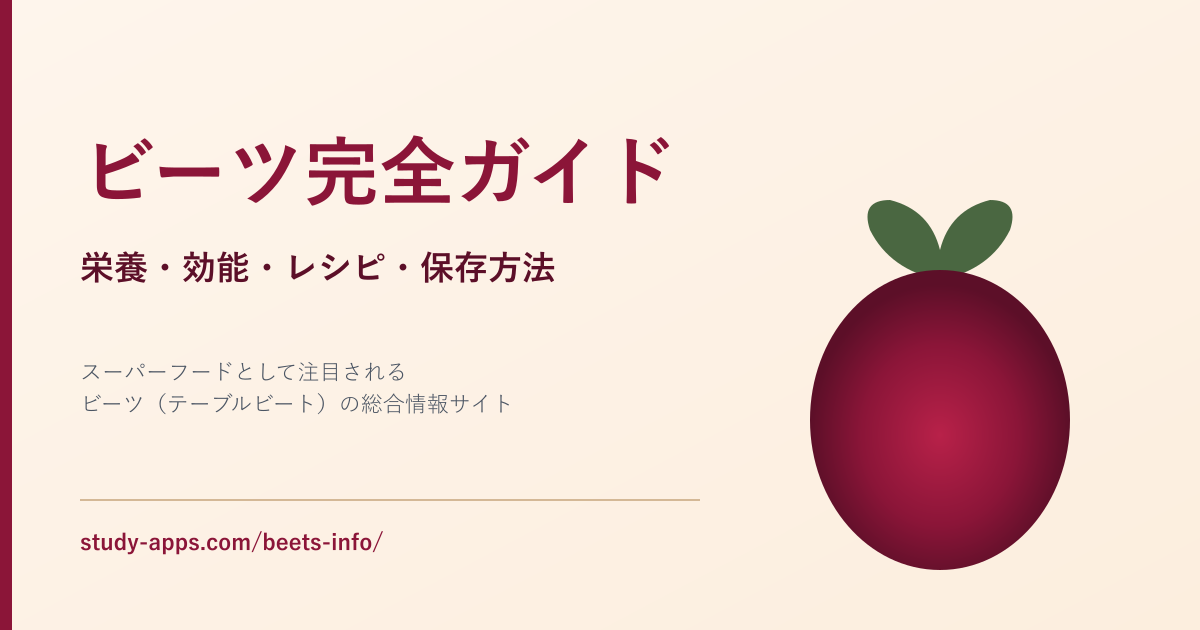
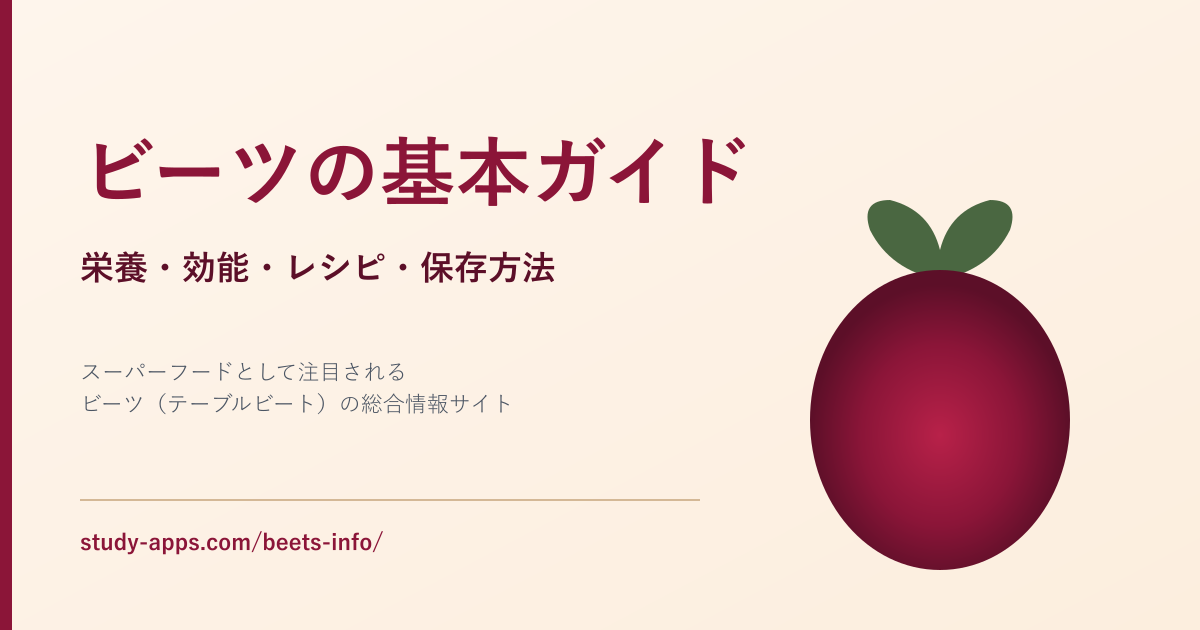
Updates

Changed region(s): [[0.2467, 0.2111, 0.555, 0.3317], [0.5858, 0.2111, 0.6167, 0.3317]]

diff --git a/about/index.html b/about/index.html
@@ -4,18 +4,18 @@
     <meta charset="UTF-8" />
     <link rel="icon" type="image/svg+xml" href="../favicon.svg" />
     <meta name="viewport" content="width=device-width, initial-scale=1.0" />
-    <title>サイトについて | ビーツ完全ガイド</title>
-    <meta name="description" content="ビーツ完全ガイドについて。本サイトの目的と情報源、免責事項を説明します。" />
+    <title>サイトについて | ビーツの基本ガイド</title>
+    <meta name="description" content="ビーツの基本ガイドについて。本サイトの目的と情報源、免責事項を説明します。" />
     <meta name="keywords" content="ビーツ,テーブルビート,栄養,効能,硝酸塩,ベタレイン,ボルシチ,レシピ,保存方法" />
     <meta property="og:title" content="サイトについて" />
-    <meta property="og:description" content="ビーツ完全ガイドについて。本サイトの目的と情報源、免責事項を説明します。" />
+    <meta property="og:description" content="ビーツの基本ガイドについて。本サイトの目的と情報源、免責事項を説明します。" />
     <meta property="og:type" content="website" />
     <meta property="og:url" content="https://study-apps.com/beets-info/about/" />
     <link rel="canonical" href="https://study-apps.com/beets-info/about/" />
     <meta property="og:image" content="https://study-apps.com/beets-info/ogp.png" />
     <meta name="twitter:card" content="summary_large_image" />
     <meta name="twitter:title" content="サイトについて" />
-    <meta name="twitter:description" content="ビーツ完全ガイドについて。本サイトの目的と情報源、免責事項を説明します。" />
+    <meta name="twitter:description" content="ビーツの基本ガイドについて。本サイトの目的と情報源、免責事項を説明します。" />
     <meta name="twitter:image" content="https://study-apps.com/beets-info/ogp.png" />
     <!-- Google tag (gtag.js) -->
     <script async src="https://www.googletagmanager.com/gtag/js?id=G-G6K27V3P4S"></script>
@@ -42,16 +42,16 @@
         }
       })();
     </script>
-    <script type="module" crossorigin src="../assets/index-BDP4HlG-.js"></script>
+    <script type="module" crossorigin src="../assets/index-DYAxEJlV.js"></script>
     <link rel="stylesheet" crossorigin href="../assets/index-BMokHyp3.css">
-  <script type="application/ld+json">{"@context":"https://schema.org","@type":"WebPage","name":"サイトについて","description":"ビーツ完全ガイドについて。本サイトの目的と情報源、免責事項を説明します。","url":"https://study-apps.com/beets-info/about/","inLanguage":"ja","isPartOf":{"@type":"WebSite","name":"ビーツ完全ガイド","url":"https://study-apps.com/beets-info/"}}</script>
-  <script type="application/ld+json">{"@context":"https://schema.org","@type":"BreadcrumbList","itemListElement":[{"@type":"ListItem","position":1,"name":"ビーツ完全ガイド","item":"https://study-apps.com/beets-info/"},{"@type":"ListItem","position":2,"name":"サイトについて","item":"https://study-apps.com/beets-info/about/"}]}</script>
+  <script type="application/ld+json">{"@context":"https://schema.org","@type":"WebPage","name":"サイトについて","description":"ビーツの基本ガイドについて。本サイトの目的と情報源、免責事項を説明します。","url":"https://study-apps.com/beets-info/about/","inLanguage":"ja","isPartOf":{"@type":"WebSite","name":"ビーツの基本ガイド","url":"https://study-apps.com/beets-info/"}}</script>
+  <script type="application/ld+json">{"@context":"https://schema.org","@type":"BreadcrumbList","itemListElement":[{"@type":"ListItem","position":1,"name":"ビーツの基本ガイド","item":"https://study-apps.com/beets-info/"},{"@type":"ListItem","position":2,"name":"サイトについて","item":"https://study-apps.com/beets-info/about/"}]}</script>
   </head>
   <body>
     <div id="root"><article style="font-family:'Hiragino Kaku Gothic ProN','Hiragino Sans','Yu Gothic',Meiryo,sans-serif;line-height:1.85;max-width:920px;margin:0 auto;padding:24px 16px;color:#1f2937">
-  <nav style="font-size:0.85rem;color:#6b7280;margin:0 0 16px"><a href="/beets-info/" style="color:#8B1538;text-decoration:none">ビーツ完全ガイド</a> <span style="color:#9ca3af">›</span> <span style="color:#4b5563;font-weight:600">サイトについて</span></nav>
+  <nav style="font-size:0.85rem;color:#6b7280;margin:0 0 16px"><a href="/beets-info/" style="color:#8B1538;text-decoration:none">ビーツの基本ガイド</a> <span style="color:#9ca3af">›</span> <span style="color:#4b5563;font-weight:600">サイトについて</span></nav>
   <h1 style="font-size:1.7rem;color:#8B1538;border-bottom:2px solid #8B1538;padding-bottom:10px">サイトについて</h1>
-  <p>本サイト「ビーツ完全ガイド」は、ビーツ（テーブルビート）に関する正確で信頼できる情報をまとめたリファレンスサイトです。</p><p>本サイトの内容は一般的な情報提供を目的としており、医学的助言を構成するものではありません。健康上の懸念がある方は医師にご相談ください。</p>
+  <p>本サイト「ビーツの基本ガイド」は、ビーツ（テーブルビート）に関する正確で信頼できる情報をまとめたリファレンスサイトです。</p><p>本サイトの内容は一般的な情報提供を目的としており、医学的助言を構成するものではありません。健康上の懸念がある方は医師にご相談ください。</p>
   <p style="margin-top:32px"><a href="/beets-info/" style="color:#8B1538">← トップへ戻る</a></p>
 </article></div>
   </body>

diff --git a/privacy/index.html b/privacy/index.html
@@ -4,18 +4,18 @@
     <meta charset="UTF-8" />
     <link rel="icon" type="image/svg+xml" href="../favicon.svg" />
     <meta name="viewport" content="width=device-width, initial-scale=1.0" />
-    <title>プライバシーポリシー | ビーツ完全ガイド</title>
-    <meta name="description" content="ビーツ完全ガイドのプライバシーポリシー。Cookie・アクセス解析・広告の使用について。" />
+    <title>プライバシーポリシー | ビーツの基本ガイド</title>
+    <meta name="description" content="ビーツの基本ガイドのプライバシーポリシー。Cookie・アクセス解析・広告の使用について。" />
     <meta name="keywords" content="ビーツ,テーブルビート,栄養,効能,硝酸塩,ベタレイン,ボルシチ,レシピ,保存方法" />
     <meta property="og:title" content="プライバシーポリシー" />
-    <meta property="og:description" content="ビーツ完全ガイドのプライバシーポリシー。Cookie・アクセス解析・広告の使用について。" />
+    <meta property="og:description" content="ビーツの基本ガイドのプライバシーポリシー。Cookie・アクセス解析・広告の使用について。" />
     <meta property="og:type" content="website" />
     <meta property="og:url" content="https://study-apps.com/beets-info/privacy/" />
     <link rel="canonical" href="https://study-apps.com/beets-info/privacy/" />
     <meta property="og:image" content="https://study-apps.com/beets-info/ogp.png" />
     <meta name="twitter:card" content="summary_large_image" />
     <meta name="twitter:title" content="プライバシーポリシー" />
-    <meta name="twitter:description" content="ビーツ完全ガイドのプライバシーポリシー。Cookie・アクセス解析・広告の使用について。" />
+    <meta name="twitter:description" content="ビーツの基本ガイドのプライバシーポリシー。Cookie・アクセス解析・広告の使用について。" />
     <meta name="twitter:image" content="https://study-apps.com/beets-info/ogp.png" />
     <!-- Google tag (gtag.js) -->
     <script async src="https://www.googletagmanager.com/gtag/js?id=G-G6K27V3P4S"></script>
@@ -42,14 +42,14 @@
         }
       })();
     </script>
-    <script type="module" crossorigin src="../assets/index-BDP4HlG-.js"></script>
+    <script type="module" crossorigin src="../assets/index-DYAxEJlV.js"></script>
     <link rel="stylesheet" crossorigin href="../assets/index-BMokHyp3.css">
-  <script type="application/ld+json">{"@context":"https://schema.org","@type":"WebPage","name":"プライバシーポリシー","description":"ビーツ完全ガイドのプライバシーポリシー。Cookie・アクセス解析・広告の使用について。","url":"https://study-apps.com/beets-info/privacy/","inLanguage":"ja","isPartOf":{"@type":"WebSite","name":"ビーツ完全ガイド","url":"https://study-apps.com/beets-info/"}}</script>
-  <script type="application/ld+json">{"@context":"https://schema.org","@type":"BreadcrumbList","itemListElement":[{"@type":"ListItem","position":1,"name":"ビーツ完全ガイド","item":"https://study-apps.com/beets-info/"},{"@type":"ListItem","position":2,"name":"プライバシーポリシー","item":"https://study-apps.com/beets-info/privacy/"}]}</script>
+  <script type="application/ld+json">{"@context":"https://schema.org","@type":"WebPage","name":"プライバシーポリシー","description":"ビーツの基本ガイドのプライバシーポリシー。Cookie・アクセス解析・広告の使用について。","url":"https://study-apps.com/beets-info/privacy/","inLanguage":"ja","isPartOf":{"@type":"WebSite","name":"ビーツの基本ガイド","url":"https://study-apps.com/beets-info/"}}</script>
+  <script type="application/ld+json">{"@context":"https://schema.org","@type":"BreadcrumbList","itemListElement":[{"@type":"ListItem","position":1,"name":"ビーツの基本ガイド","item":"https://study-apps.com/beets-info/"},{"@type":"ListItem","position":2,"name":"プライバシーポリシー","item":"https://study-apps.com/beets-info/privacy/"}]}</script>
   </head>
   <body>
     <div id="root"><article style="font-family:'Hiragino Kaku Gothic ProN','Hiragino Sans','Yu Gothic',Meiryo,sans-serif;line-height:1.85;max-width:920px;margin:0 auto;padding:24px 16px;color:#1f2937">
-  <nav style="font-size:0.85rem;color:#6b7280;margin:0 0 16px"><a href="/beets-info/" style="color:#8B1538;text-decoration:none">ビーツ完全ガイド</a> <span style="color:#9ca3af">›</span> <span style="color:#4b5563;font-weight:600">プライバシーポリシー</span></nav>
+  <nav style="font-size:0.85rem;color:#6b7280;margin:0 0 16px"><a href="/beets-info/" style="color:#8B1538;text-decoration:none">ビーツの基本ガイド</a> <span style="color:#9ca3af">›</span> <span style="color:#4b5563;font-weight:600">プライバシーポリシー</span></nav>
   <h1 style="font-size:1.7rem;color:#8B1538;border-bottom:2px solid #8B1538;padding-bottom:10px">プライバシーポリシー</h1>
   <h2 class="content-h2" style="font-size:1.35rem;color:#8B1538;border-left:4px solid #8B1538;background:#fef5ec;padding:8px 14px;margin:32px 0 16px">アクセス解析</h2><p>本サイトでは Google Analytics を使用しています。Cookie を利用して匿名のトラフィックデータを収集します。</p><h2 class="content-h2" style="font-size:1.35rem;color:#8B1538;border-left:4px solid #8B1538;background:#fef5ec;padding:8px 14px;margin:32px 0 16px">広告について</h2><p>本サイトでは Google AdSense などの第三者配信の広告サービスを利用することがあります。広告配信事業者は、ユーザーの興味に応じた広告を表示するために Cookie を使用することがあります。</p><h2 class="content-h2" style="font-size:1.35rem;color:#8B1538;border-left:4px solid #8B1538;background:#fef5ec;padding:8px 14px;margin:32px 0 16px">免責事項</h2><p>本サイトの情報の利用により生じた損害について、運営者は一切の責任を負いません。</p>
   <p style="margin-top:32px"><a href="/beets-info/" style="color:#8B1538">← トップへ戻る</a></p>

diff --git a/index.html b/index.html
@@ -4,17 +4,17 @@
     <meta charset="UTF-8" />
     <link rel="icon" type="image/svg+xml" href="./favicon.svg" />
     <meta name="viewport" content="width=device-width, initial-scale=1.0" />
-    <title>ビーツ完全ガイド | 栄養・効能・レシピ・保存方法</title>
+    <title>ビーツの基本ガイド | 栄養・効能・レシピ・保存方法</title>
     <meta name="description" content="ビーツ（テーブルビート）の栄養、健康効果、品種、産地、レシピ、選び方、保存方法、注意点まで網羅した総合情報サイト。" />
     <meta name="keywords" content="ビーツ,テーブルビート,栄養,効能,硝酸塩,ベタレイン,ボルシチ,レシピ,保存方法" />
-    <meta property="og:title" content="ビーツ完全ガイド | 栄養・効能・レシピ・保存方法" />
+    <meta property="og:title" content="ビーツの基本ガイド | 栄養・効能・レシピ・保存方法" />
     <meta property="og:description" content="ビーツの栄養・健康効果から、調理法・保存方法・注意点まで網羅した総合情報サイト。" />
     <meta property="og:type" content="website" />
     <meta property="og:url" content="https://study-apps.com/beets-info/" />
     <link rel="canonical" href="https://study-apps.com/beets-info/" />
     <meta property="og:image" content="https://study-apps.com/beets-info/ogp.png" />
     <meta name="twitter:card" content="summary_large_image" />
-    <meta name="twitter:title" content="ビーツ完全ガイド | 栄養・効能・レシピ・保存方法" />
+    <meta name="twitter:title" content="ビーツの基本ガイド | 栄養・効能・レシピ・保存方法" />
     <meta name="twitter:description" content="ビーツの栄養・健康効果から、調理法・保存方法・注意点まで網羅した総合情報サイト。" />
     <meta name="twitter:image" content="https://study-apps.com/beets-info/ogp.png" />
     <!-- Google tag (gtag.js) -->
@@ -42,13 +42,13 @@
         }
       })();
     </script>
-    <script type="module" crossorigin src="./assets/index-BDP4HlG-.js"></script>
+    <script type="module" crossorigin src="./assets/index-DYAxEJlV.js"></script>
     <link rel="stylesheet" crossorigin href="./assets/index-BMokHyp3.css">
-  <script type="application/ld+json">{"@context":"https://schema.org","@type":"WebSite","name":"ビーツ完全ガイド","url":"https://study-apps.com/beets-info/","description":"ビーツ（テーブルビート）の栄養、健康効果、品種、産地、レシピ、選び方、保存方法、注意点まで網羅した総合情報サイト。","inLanguage":"ja"}</script>
+  <script type="application/ld+json">{"@context":"https://schema.org","@type":"WebSite","name":"ビーツの基本ガイド","url":"https://study-apps.com/beets-info/","description":"ビーツ（テーブルビート）の栄養、健康効果、品種、産地、レシピ、選び方、保存方法、注意点まで網羅した総合情報サイト。","inLanguage":"ja"}</script>
   </head>
   <body>
     <div id="root"><article id="static-fallback" style="font-family:sans-serif;line-height:1.7;max-width:920px;margin:0 auto;padding:24px 16px">
-  <h1 style="font-size:1.8rem;font-weight:700;border-bottom:2px solid #8B1538;padding-bottom:8px;margin-bottom:16px;color:#8B1538">ビーツ完全ガイド</h1>
+  <h1 style="font-size:1.8rem;font-weight:700;border-bottom:2px solid #8B1538;padding-bottom:8px;margin-bottom:16px;color:#8B1538">ビーツの基本ガイド</h1>
   <p style="color:#444;margin-bottom:24px">スーパーフードとして注目されるビーツ（テーブルビート）。栄養と健康効果、品種、産地、レシピ、保存方法、注意点まで、科学的根拠に基づいて分かりやすく解説します。</p>
   <h2 style="font-size:1.3rem;font-weight:700;margin-bottom:12px">セクション一覧</h2>
   <ul style="list-style:none;padding:0">

diff --git a/glossary/index.html b/glossary/index.html
@@ -4,7 +4,7 @@
     <meta charset="UTF-8" />
     <link rel="icon" type="image/svg+xml" href="../favicon.svg" />
     <meta name="viewport" content="width=device-width, initial-scale=1.0" />
-    <title>用語集 | ビーツ完全ガイド</title>
+    <title>用語集 | ビーツの基本ガイド</title>
     <meta name="description" content="ビーツに関する専門用語（ベタレイン、ベタシアニン、シュウ酸、FODMAP、ビーツ尿など）の解説。" />
     <meta name="keywords" content="ビーツ,テーブルビート,栄養,効能,硝酸塩,ベタレイン,ボルシチ,レシピ,保存方法" />
     <meta property="og:title" content="用語集" />
@@ -42,14 +42,14 @@
         }
       })();
     </script>
-    <script type="module" crossorigin src="../assets/index-BDP4HlG-.js"></script>
+    <script type="module" crossorigin src="../assets/index-DYAxEJlV.js"></script>
     <link rel="stylesheet" crossorigin href="../assets/index-BMokHyp3.css">
-  <script type="application/ld+json">{"@context":"https://schema.org","@type":"WebPage","name":"用語集","description":"ビーツに関する専門用語（ベタレイン、ベタシアニン、シュウ酸、FODMAP、ビーツ尿など）の解説。","url":"https://study-apps.com/beets-info/glossary/","inLanguage":"ja","isPartOf":{"@type":"WebSite","name":"ビーツ完全ガイド","url":"https://study-apps.com/beets-info/"}}</script>
-  <script type="application/ld+json">{"@context":"https://schema.org","@type":"BreadcrumbList","itemListElement":[{"@type":"ListItem","position":1,"name":"ビーツ完全ガイド","item":"https://study-apps.com/beets-info/"},{"@type":"ListItem","position":2,"name":"用語集","item":"https://study-apps.com/beets-info/glossary/"}]}</script>
+  <script type="application/ld+json">{"@context":"https://schema.org","@type":"WebPage","name":"用語集","description":"ビーツに関する専門用語（ベタレイン、ベタシアニン、シュウ酸、FODMAP、ビーツ尿など）の解説。","url":"https://study-apps.com/beets-info/glossary/","inLanguage":"ja","isPartOf":{"@type":"WebSite","name":"ビーツの基本ガイド","url":"https://study-apps.com/beets-info/"}}</script>
+  <script type="application/ld+json">{"@context":"https://schema.org","@type":"BreadcrumbList","itemListElement":[{"@type":"ListItem","position":1,"name":"ビーツの基本ガイド","item":"https://study-apps.com/beets-info/"},{"@type":"ListItem","position":2,"name":"用語集","item":"https://study-apps.com/beets-info/glossary/"}]}</script>
   </head>
   <body>
     <div id="root"><article style="font-family:'Hiragino Kaku Gothic ProN','Hiragino Sans','Yu Gothic',Meiryo,sans-serif;line-height:1.85;max-width:920px;margin:0 auto;padding:24px 16px;color:#1f2937">
-  <nav style="font-size:0.85rem;color:#6b7280;margin:0 0 16px"><a href="/beets-info/" style="color:#8B1538;text-decoration:none">ビーツ完全ガイド</a> <span style="color:#9ca3af">›</span> <span style="color:#4b5563;font-weight:600">用語集</span></nav>
+  <nav style="font-size:0.85rem;color:#6b7280;margin:0 0 16px"><a href="/beets-info/" style="color:#8B1538;text-decoration:none">ビーツの基本ガイド</a> <span style="color:#9ca3af">›</span> <span style="color:#4b5563;font-weight:600">用語集</span></nav>
   <h1 style="font-size:1.7rem;color:#8B1538;border-bottom:2px solid #8B1538;padding-bottom:10px">用語集</h1>
   <p style="color:#555;font-size:1.05rem;margin:16px 0 24px">本サイトに登場する専門用語をまとめました。ベタレイン、シュウ酸、FODMAP など、健康効果や注意点の理解に役立ててください。</p><dl style="margin:0;padding:0"><div style="border-bottom:1px solid #e7d8c8;padding:20px 0"><dt style="font-weight:700;color:#8B1538;font-size:1.1rem;margin-bottom:8px"><span style="margin-right:4px">一酸化窒素（NO）</span><span style="color:#9c8f80;font-size:0.9rem;font-weight:400">（いっさんかちっそ）</span></dt><dd style="margin:0"><p style="margin:0 0 8px;line-height:1.85;color:#1f2937">血管平滑筋に作用し血管を拡張させる生理活性物質。ビーツの硝酸塩から体内で生成される。血流改善・血圧低下・運動効率向上に関与する。</p><a href="/beets-info/nutrition/" style="display:inline-block;font-size:0.88rem;color:#8B1538;margin-top:4px">関連ページ：栄養と健康効果 →</a></dd></div><div style="border-bottom:1px solid #e7d8c8;padding:20px 0"><dt style="font-weight:700;color:#8B1538;font-size:1.1rem;margin-bottom:8px"><span style="margin-right:4px">エルゴジェニックエイド</span></dt><dd style="margin:0"><p style="margin:0 0 8px;line-height:1.85;color:#1f2937">運動パフォーマンスを向上させる目的で使用される物質や手段の総称。ビーツの硝酸塩は天然のエルゴジェニックエイドとして、持久系競技者に活用されている。</p><a href="/beets-info/nutrition/" style="display:inline-block;font-size:0.88rem;color:#8B1538;margin-top:4px">関連ページ：栄養と健康効果 →</a></dd></div><div style="border-bottom:1px solid #e7d8c8;padding:20px 0"><dt style="font-weight:700;color:#8B1538;font-size:1.1rem;margin-bottom:8px"><span style="margin-right:4px">火焔菜</span><span style="color:#9c8f80;font-size:0.9rem;font-weight:400">（かえんさい）</span></dt><dd style="margin:0"><p style="margin:0 0 8px;line-height:1.85;color:#1f2937">ビーツの和名。江戸時代に日本に伝わったとき、燃え盛る炎のような赤色から名付けられた。当初は観賞用として愛でられていた。</p><a href="/beets-info/basics/" style="display:inline-block;font-size:0.88rem;color:#8B1538;margin-top:4px">関連ページ：基礎知識 →</a></dd></div><div style="border-bottom:1px solid #e7d8c8;padding:20px 0"><dt style="font-weight:700;color:#8B1538;font-size:1.1rem;margin-bottom:8px"><span style="margin-right:4px">高カリウム血症</span><span style="color:#9c8f80;font-size:0.9rem;font-weight:400">（こうカリウムけっしょう）</span></dt><dd style="margin:0"><p style="margin:0 0 8px;line-height:1.85;color:#1f2937">血中カリウム濃度が異常に高くなる状態。腎機能低下時に発症リスクが高い。重症化すると不整脈や心停止につながる危険な状態。ビーツは100g中380〜460mgと高カリウムなため、腎臓病の方は摂取を控える。</p><a href="/beets-info/cautions/" style="display:inline-block;font-size:0.88rem;color:#8B1538;margin-top:4px">関連ページ：注意点と副作用 →</a></dd></div><div style="border-bottom:1px solid #e7d8c8;padding:20px 0"><dt style="font-weight:700;color:#8B1538;font-size:1.1rem;margin-bottom:8px"><span style="margin-right:4px">ジオスミン</span></dt><dd style="margin:0"><p style="margin:0 0 8px;line-height:1.85;color:#1f2937">ビーツの土特有の香りを生み出す有機化合物。土壌中の放線菌などが生成し、ビーツの根に蓄積する。雨上がりの土の匂いの正体でもある。</p><a href="/beets-info/basics/" style="display:inline-block;font-size:0.88rem;color:#8B1538;margin-top:4px">関連ページ：基礎知識 →</a></dd></div><div style="border-bottom:1px solid #e7d8c8;padding:20px 0"><dt style="font-weight:700;color:#8B1538;font-size:1.1rem;margin-bottom:8px"><span style="margin-right:4px">シュウ酸</span><span style="color:#9c8f80;font-size:0.9rem;font-weight:400">（しゅうさん）</span></dt><dd style="margin:0"><p style="margin:0 0 8px;line-height:1.85;color:#1f2937">ビーツやホウレンソウに含まれるカルボン酸の一種。尿中でカルシウムと結合して結晶（シュウ酸カルシウム）となり、尿路結石の原因になることがある。茹でこぼし・乳製品との同時摂取で吸収を抑えられる。</p><a href="/beets-info/cautions/" style="display:inline-block;font-size:0.88rem;color:#8B1538;margin-top:4px">関連ページ：注意点と副作用 →</a></dd></div><div style="border-bottom:1px solid #e7d8c8;padding:20px 0"><dt style="font-weight:700;color:#8B1538;font-size:1.1rem;margin-bottom:8px"><span style="margin-right:4px">硝酸塩</span><span style="color:#9c8f80;font-size:0.9rem;font-weight:400">（しょうさんえん）</span></dt><dd style="margin:0"><p style="margin:0 0 8px;line-height:1.85;color:#1f2937">ビーツに豊富に含まれる無機イオン（NO₃⁻）。経口摂取後、口腔内細菌や胃酸の働きで一酸化窒素（NO）に変換され、血管拡張・血圧低下・運動パフォーマンス向上などの作用をもたらす。</p><a href="/beets-info/nutrition/" style="display:inline-block;font-size:0.88rem;color:#8B1538;margin-top:4px">関連ページ：栄養と健康効果 →</a></dd></div><div style="border-bottom:1px solid #e7d8c8;padding:20px 0"><dt style="font-weight:700;color:#8B1538;font-size:1.1rem;margin-bottom:8px"><span style="margin-right:4px">スイスチャード</span></dt><dd style="margin:0"><p style="margin:0 0 8px;line-height:1.85;color:#1f2937">ビーツと同じ Beta vulgaris に属する葉菜用品種。葉と肉厚の葉柄を食用にする。カラフルな葉柄が彩り野菜として人気。和名は「フダンソウ」。</p><a href="/beets-info/basics/" style="display:inline-block;font-size:0.88rem;color:#8B1538;margin-top:4px">関連ページ：基礎知識 →</a></dd></div><div style="border-bottom:1px solid #e7d8c8;padding:20px 0"><dt style="font-weight:700;color:#8B1538;font-size:1.1rem;margin-bottom:8px"><span style="margin-right:4px">テーブルビート</span></dt><dd style="margin:0"><p style="margin:0 0 8px;line-height:1.85;color:#1f2937">食用ビーツの正式名称のひとつ。観賞用や砂糖原料用と区別するため、英語圏では「table beet」と呼ぶ。本サイトの「ビーツ」はテーブルビート（Beta vulgaris Garden Beet Group）を指す。</p><a href="/beets-info/basics/" style="display:inline-block;font-size:0.88rem;color:#8B1538;margin-top:4px">関連ページ：基礎知識 →</a></dd></div><div style="border-bottom:1px solid #e7d8c8;padding:20px 0"><dt style="font-weight:700;color:#8B1538;font-size:1.1rem;margin-bottom:8px"><span style="margin-right:4px">テンサイ</span><span style="color:#9c8f80;font-size:0.9rem;font-weight:400">（てんさい）</span></dt><dd style="margin:0"><p style="margin:0 0 8px;line-height:1.85;color:#1f2937">ビーツと同じ Beta vulgaris に属するが、根に砂糖（ショ糖）を蓄積するよう改良された品種群。日本では北海道で大規模栽培され、てん菜糖の原料となる。</p><a href="/beets-info/basics/" style="display:inline-block;font-size:0.88rem;color:#8B1538;margin-top:4px">関連ページ：基礎知識 →</a></dd></div><div style="border-bottom:1px solid #e7d8c8;padding:20px 0"><dt style="font-weight:700;color:#8B1538;font-size:1.1rem;margin-bottom:8px"><span style="margin-right:4px">ビーツ尿</span><span style="color:#9c8f80;font-size:0.9rem;font-weight:400">（ビーツにょう）</span></dt><dd style="margin:0"><p style="margin:0 0 8px;line-height:1.85;color:#1f2937">ビーツ摂取後に尿がピンク〜赤褐色に変色する生理的現象（医学用語：Beeturia）。ベタシアニンが分解されずに尿中へ排出されるために起こる。完全に無害で、1〜2日で元に戻る。</p><a href="/beets-info/cautions/" style="display:inline-block;font-size:0.88rem;color:#8B1538;margin-top:4px">関連ページ：注意点と副作用 →</a></dd></div><div style="border-bottom:1px solid #e7d8c8;padding:20px 0"><dt style="font-weight:700;color:#8B1538;font-size:1.1rem;margin-bottom:8px"><span style="margin-right:4px">FODMAP</span><span style="color:#9c8f80;font-size:0.9rem;font-weight:400">（フォドマップ）</span></dt><dd style="margin:0"><p style="margin:0 0 8px;line-height:1.85;color:#1f2937">小腸で吸収されにくく大腸で発酵を起こす糖質群の総称（Fermentable Oligo-, Di-, Mono-saccharides And Polyols）。過敏性腸症候群（IBS）患者では症状の原因になりうる。ビーツに含まれるフルクタンも該当する。</p><a href="/beets-info/cautions/" style="display:inline-block;font-size:0.88rem;color:#8B1538;margin-top:4px">関連ページ：注意点と副作用 →</a></dd></div><div style="border-bottom:1px solid #e7d8c8;padding:20px 0"><dt style="font-weight:700;color:#8B1538;font-size:1.1rem;margin-bottom:8px"><span style="margin-right:4px">フルクタン</span></dt><dd style="margin:0"><p style="margin:0 0 8px;line-height:1.85;color:#1f2937">果糖（フルクトース）が連なった多糖類。ヒトの小腸では消化できず大腸で発酵してガスを発生させる。FODMAPの一種で、IBSの方は注意が必要。</p><a href="/beets-info/cautions/" style="display:inline-block;font-size:0.88rem;color:#8B1538;margin-top:4px">関連ページ：注意点と副作用 →</a></dd></div><div style="border-bottom:1px solid #e7d8c8;padding:20px 0"><dt style="font-weight:700;color:#8B1538;font-size:1.1rem;margin-bottom:8px"><span style="margin-right:4px">ベタイン</span></dt><dd style="margin:0"><p style="margin:0 0 8px;line-height:1.85;color:#1f2937">ビーツに豊富に含まれる含窒素化合物。肝臓での脂質蓄積を抑える、ホモシステインを低減するなどの作用が報告されている。化粧品では保湿成分としても利用される。</p><a href="/beets-info/nutrition/" style="display:inline-block;font-size:0.88rem;color:#8B1538;margin-top:4px">関連ページ：栄養と健康効果 →</a></dd></div><div style="border-bottom:1px solid #e7d8c8;padding:20px 0"><dt style="font-weight:700;color:#8B1538;font-size:1.1rem;margin-bottom:8px"><span style="margin-right:4px">ベタシアニン</span></dt><dd style="margin:0"><p style="margin:0 0 8px;line-height:1.85;color:#1f2937">ベタレインのうち赤紫色を担う色素。水溶性で熱・アルカリ・金属イオンに弱く、加熱や切断により流出しやすい。皮付き加熱が推奨される理由のひとつ。</p><a href="/beets-info/recipes/" style="display:inline-block;font-size:0.88rem;color:#8B1538;margin-top:4px">関連ページ：料理とレシピ →</a></dd></div><div style="border-bottom:1px solid #e7d8c8;padding:20px 0"><dt style="font-weight:700;color:#8B1538;font-size:1.1rem;margin-bottom:8px"><span style="margin-right:4px">ベタレイン</span></dt><dd style="margin:0"><p style="margin:0 0 8px;line-height:1.85;color:#1f2937">ビーツの鮮やかな赤紫色を作っている水溶性の天然色素。ベタシアニン（赤色系）とベタキサンチン（黄色系）の総称。サボテン科の植物にも含まれる、植物界では珍しい色素グループ。強力な抗酸化作用が報告されている。</p><a href="/beets-info/nutrition/" style="display:inline-block;font-size:0.88rem;color:#8B1538;margin-top:4px">関連ページ：栄養と健康効果 →</a></dd></div></dl>
   <p style="margin-top:32px"><a href="/beets-info/" style="color:#8B1538">← トップへ戻る</a></p>

diff --git a/basics/index.html b/basics/index.html
@@ -4,7 +4,7 @@
     <meta charset="UTF-8" />
     <link rel="icon" type="image/svg+xml" href="../favicon.svg" />
     <meta name="viewport" content="width=device-width, initial-scale=1.0" />
-    <title>ビーツの基礎知識｜植物としての特徴と代表品種 | ビーツ完全ガイド</title>
+    <title>ビーツの基礎知識｜植物としての特徴と代表品種 | ビーツの基本ガイド</title>
     <meta name="description" content="ビーツ（テーブルビート）の学名・系統分類、歴史的背景、代表的な品種（デトロイト・ダークレッド、ゴルゴ、ゴールデンビーツなど）を解説します。" />
     <meta name="keywords" content="ビーツ,テーブルビート,栄養,効能,硝酸塩,ベタレイン,ボルシチ,レシピ,保存方法" />
     <meta property="og:title" content="ビーツの基礎知識｜植物としての特徴と代表品種" />
@@ -42,15 +42,15 @@
         }
       })();
     </script>
-    <script type="module" crossorigin src="../assets/index-BDP4HlG-.js"></script>
+    <script type="module" crossorigin src="../assets/index-DYAxEJlV.js"></script>
     <link rel="stylesheet" crossorigin href="../assets/index-BMokHyp3.css">
   <script type="application/ld+json">{"@context":"https://schema.org","@type":"Article","headline":"ビーツの基礎知識｜植物としての特徴と代表品種","description":"ビーツ（テーブルビート）の学名・系統分類、歴史的背景、代表的な品種（デトロイト・ダークレッド、ゴルゴ、ゴールデンビーツなど）を解説します。","url":"https://study-apps.com/beets-info/basics/","inLanguage":"ja","datePublished":"2026-05-18","dateModified":"2026-05-18","author":{"@type":"Organization","name":"study-apps.com"},"publisher":{"@type":"Organization","name":"study-apps.com","url":"https://study-apps.com/"},"mainEntityOfPage":{"@type":"WebPage","@id":"https://study-apps.com/beets-info/basics/"}}</script>
-  <script type="application/ld+json">{"@context":"https://schema.org","@type":"BreadcrumbList","itemListElement":[{"@type":"ListItem","position":1,"name":"ビーツ完全ガイド","item":"https://study-apps.com/beets-info/"},{"@type":"ListItem","position":2,"name":"基礎知識","item":"https://study-apps.com/beets-info/basics/"}]}</script>
+  <script type="application/ld+json">{"@context":"https://schema.org","@type":"BreadcrumbList","itemListElement":[{"@type":"ListItem","position":1,"name":"ビーツの基本ガイド","item":"https://study-apps.com/beets-info/"},{"@type":"ListItem","position":2,"name":"基礎知識","item":"https://study-apps.com/beets-info/basics/"}]}</script>
   
   </head>
   <body>
     <div id="root"><article style="font-family:'Hiragino Kaku Gothic ProN','Hiragino Sans','Yu Gothic',Meiryo,sans-serif;line-height:1.85;max-width:920px;margin:0 auto;padding:24px 16px;color:#1f2937">
-  <nav style="font-size:0.85rem;color:#6b7280;margin:0 0 16px"><a href="/beets-info/" style="color:#8B1538;text-decoration:none">ビーツ完全ガイド</a> <span style="color:#9ca3af">›</span> <span style="color:#4b5563;font-weight:600">基礎知識</span></nav>
+  <nav style="font-size:0.85rem;color:#6b7280;margin:0 0 16px"><a href="/beets-info/" style="color:#8B1538;text-decoration:none">ビーツの基本ガイド</a> <span style="color:#9ca3af">›</span> <span style="color:#4b5563;font-weight:600">基礎知識</span></nav>
   <header style="margin-bottom:20px">
     <div style="font-size:2.4rem;line-height:1;margin-bottom:8px">🌱</div>
     <h1 style="font-size:1.7rem;color:#8B1538;border-bottom:2px solid #8B1538;padding-bottom:10px;margin:0 0 8px">ビーツの基礎知識｜植物としての特徴と代表品種</h1>

diff --git a/cautions/index.html b/cautions/index.html
@@ -4,7 +4,7 @@
     <meta charset="UTF-8" />
     <link rel="icon" type="image/svg+xml" href="../favicon.svg" />
     <meta name="viewport" content="width=device-width, initial-scale=1.0" />
-    <title>ビーツ摂取時の注意点と副作用｜尿の赤色化・シュウ酸 | ビーツ完全ガイド</title>
+    <title>ビーツ摂取時の注意点と副作用｜尿の赤色化・シュウ酸 | ビーツの基本ガイド</title>
     <meta name="description" content="ビーツ尿（尿や便の赤色化）、シュウ酸による尿路結石リスク、FODMAP、高カリウム血症など、安全に食べるための注意点を解説します。" />
     <meta name="keywords" content="ビーツ,テーブルビート,栄養,効能,硝酸塩,ベタレイン,ボルシチ,レシピ,保存方法" />
     <meta property="og:title" content="ビーツ摂取時の注意点と副作用｜尿の赤色化・シュウ酸" />
@@ -42,15 +42,15 @@
         }
       })();
     </script>
-    <script type="module" crossorigin src="../assets/index-BDP4HlG-.js"></script>
+    <script type="module" crossorigin src="../assets/index-DYAxEJlV.js"></script>
     <link rel="stylesheet" crossorigin href="../assets/index-BMokHyp3.css">
   <script type="application/ld+json">{"@context":"https://schema.org","@type":"Article","headline":"ビーツ摂取時の注意点と副作用｜尿の赤色化・シュウ酸","description":"ビーツ尿（尿や便の赤色化）、シュウ酸による尿路結石リスク、FODMAP、高カリウム血症など、安全に食べるための注意点を解説します。","url":"https://study-apps.com/beets-info/cautions/","inLanguage":"ja","datePublished":"2026-05-18","dateModified":"2026-05-18","author":{"@type":"Organization","name":"study-apps.com"},"publisher":{"@type":"Organization","name":"study-apps.com","url":"https://study-apps.com/"},"mainEntityOfPage":{"@type":"WebPage","@id":"https://study-apps.com/beets-info/cautions/"}}</script>
-  <script type="application/ld+json">{"@context":"https://schema.org","@type":"BreadcrumbList","itemListElement":[{"@type":"ListItem","position":1,"name":"ビーツ完全ガイド","item":"https://study-apps.com/beets-info/"},{"@type":"ListItem","position":2,"name":"注意点と副作用","item":"https://study-apps.com/beets-info/cautions/"}]}</script>
+  <script type="application/ld+json">{"@context":"https://schema.org","@type":"BreadcrumbList","itemListElement":[{"@type":"ListItem","position":1,"name":"ビーツの基本ガイド","item":"https://study-apps.com/beets-info/"},{"@type":"ListItem","position":2,"name":"注意点と副作用","item":"https://study-apps.com/beets-info/cautions/"}]}</script>
   <script type="application/ld+json">{"@context":"https://schema.org","@type":"FAQPage","mainEntity":[{"@type":"Question","name":"ビーツを食べた後、尿が赤くなったのですが大丈夫ですか？","acceptedAnswer":{"@type":"Answer","text":"これは「ビーツ尿（Beeturia）」と呼ばれる現象で、ビーツの赤色色素「ベタシアニン」が分解されずに尿として排出されることで起こります。完全に無害で、1〜2日で自然に元に戻ります。便が黒っぽくなったり、赤い筋が混じるのも同じ理由です。"}},{"@type":"Question","name":"ビーツでシュウ酸による尿路結石になるリスクはありますか？","acceptedAnswer":{"@type":"Answer","text":"ビーツには100gあたり約30〜60mgのシュウ酸が含まれており、過去に尿路結石になったことがある方や家族歴のある方はリスクが高くなります。対策として、(1) カットしてから茹でこぼす、(2) ヨーグルトやチーズなど乳製品と同時に食べる（腸内でカルシウムと結合させて吸収を防ぐ）、(3) 水分を1日1.5〜2リットル摂取する、の3つが有効です。"}},{"@type":"Question","name":"ビーツを食べてお腹が張ったり下痢になりました。なぜですか？","acceptedAnswer":{"@type":"Answer","text":"ビーツに含まれる「フルクタン」（FODMAPの一種）が大腸で発酵してガスを発生させるためです。特に過敏性腸症候群（IBS）の方は症状が悪化することがあります。少量（30g程度）から試して、自分の体に合うか確認することをおすすめします。"}},{"@type":"Question","name":"腎臓病でもビーツを食べられますか？","acceptedAnswer":{"@type":"Answer","text":"ビーツは100gあたり380〜460mgと高カリウムな野菜のため、慢性腎臓病（CKD）や透析中の方は原則として摂取を控えるべきです。腎機能が低下している方は必ず主治医に相談してください。どうしても食べる場合は徹底的な茹でこぼしでカリウムを減らせますが、自己判断は禁物です。"}},{"@type":"Question","name":"1日にどのくらいのビーツを食べてよいですか？","acceptedAnswer":{"@type":"Answer","text":"健康な成人は100g程度（中サイズ1/2〜1個分）を週2〜3回が目安です。乳幼児（3歳以上）は30〜50g、妊婦は50g程度、高齢者は70〜100g、低血圧の方は30〜50gまで。シュウ酸の蓄積を避けるため、毎日大量に食べ続けることはおすすめしません。"}},{"@type":"Question","name":"ビーツのベタレイン（色素）は熱に弱いと聞きましたが本当ですか？","acceptedAnswer":{"@type":"Answer","text":"本当です。ベタレインは熱に弱いため、栄養を最大限に取りたい場合は生のサラダやスムージーで食べるのがおすすめです。加熱する場合も、皮を剥かず・葉のヘタも切らずに丸ごとロースト・蒸す・電子レンジ加熱することで、流出を最小限に抑えられます。"}}]}</script>
   </head>
   <body>
     <div id="root"><article style="font-family:'Hiragino Kaku Gothic ProN','Hiragino Sans','Yu Gothic',Meiryo,sans-serif;line-height:1.85;max-width:920px;margin:0 auto;padding:24px 16px;color:#1f2937">
-  <nav style="font-size:0.85rem;color:#6b7280;margin:0 0 16px"><a href="/beets-info/" style="color:#8B1538;text-decoration:none">ビーツ完全ガイド</a> <span style="color:#9ca3af">›</span> <span style="color:#4b5563;font-weight:600">注意点と副作用</span></nav>
+  <nav style="font-size:0.85rem;color:#6b7280;margin:0 0 16px"><a href="/beets-info/" style="color:#8B1538;text-decoration:none">ビーツの基本ガイド</a> <span style="color:#9ca3af">›</span> <span style="color:#4b5563;font-weight:600">注意点と副作用</span></nav>
   <header style="margin-bottom:20px">
     <div style="font-size:2.4rem;line-height:1;margin-bottom:8px">⚠️</div>
     <h1 style="font-size:1.7rem;color:#8B1538;border-bottom:2px solid #8B1538;padding-bottom:10px;margin:0 0 8px">ビーツ摂取時の注意点と副作用｜尿の赤色化・シュウ酸</h1>

diff --git a/cultivation/index.html b/cultivation/index.html
@@ -4,7 +4,7 @@
     <meta charset="UTF-8" />
     <link rel="icon" type="image/svg+xml" href="../favicon.svg" />
     <meta name="viewport" content="width=device-width, initial-scale=1.0" />
-    <title>日本国内のビーツ栽培｜主要産地と旬の時期 | ビーツ完全ガイド</title>
+    <title>日本国内のビーツ栽培｜主要産地と旬の時期 | ビーツの基本ガイド</title>
     <meta name="description" content="北海道・長野・熊本などビーツの主要産地、春まき・秋まきのサイクル、旬の時期、有機栽培の特性を解説します。" />
     <meta name="keywords" content="ビーツ,テーブルビート,栄養,効能,硝酸塩,ベタレイン,ボルシチ,レシピ,保存方法" />
     <meta property="og:title" content="日本国内のビーツ栽培｜主要産地と旬の時期" />
@@ -42,15 +42,15 @@
         }
       })();
     </script>
-    <script type="module" crossorigin src="../assets/index-BDP4HlG-.js"></script>
+    <script type="module" crossorigin src="../assets/index-DYAxEJlV.js"></script>
     <link rel="stylesheet" crossorigin href="../assets/index-BMokHyp3.css">
   <script type="application/ld+json">{"@context":"https://schema.org","@type":"Article","headline":"日本国内のビーツ栽培｜主要産地と旬の時期","description":"北海道・長野・熊本などビーツの主要産地、春まき・秋まきのサイクル、旬の時期、有機栽培の特性を解説します。","url":"https://study-apps.com/beets-info/cultivation/","inLanguage":"ja","datePublished":"2026-05-18","dateModified":"2026-05-18","author":{"@type":"Organization","name":"study-apps.com"},"publisher":{"@type":"Organization","name":"study-apps.com","url":"https://study-apps.com/"},"mainEntityOfPage":{"@type":"WebPage","@id":"https://study-apps.com/beets-info/cultivation/"}}</script>
-  <script type="application/ld+json">{"@context":"https://schema.org","@type":"BreadcrumbList","itemListElement":[{"@type":"ListItem","position":1,"name":"ビーツ完全ガイド","item":"https://study-apps.com/beets-info/"},{"@type":"ListItem","position":2,"name":"栽培・産地・旬","item":"https://study-apps.com/beets-info/cultivation/"}]}</script>
+  <script type="application/ld+json">{"@context":"https://schema.org","@type":"BreadcrumbList","itemListElement":[{"@type":"ListItem","position":1,"name":"ビーツの基本ガイド","item":"https://study-apps.com/beets-info/"},{"@type":"ListItem","position":2,"name":"栽培・産地・旬","item":"https://study-apps.com/beets-info/cultivation/"}]}</script>
   
   </head>
   <body>
     <div id="root"><article style="font-family:'Hiragino Kaku Gothic ProN','Hiragino Sans','Yu Gothic',Meiryo,sans-serif;line-height:1.85;max-width:920px;margin:0 auto;padding:24px 16px;color:#1f2937">
-  <nav style="font-size:0.85rem;color:#6b7280;margin:0 0 16px"><a href="/beets-info/" style="color:#8B1538;text-decoration:none">ビーツ完全ガイド</a> <span style="color:#9ca3af">›</span> <span style="color:#4b5563;font-weight:600">栽培・産地・旬</span></nav>
+  <nav style="font-size:0.85rem;color:#6b7280;margin:0 0 16px"><a href="/beets-info/" style="color:#8B1538;text-decoration:none">ビーツの基本ガイド</a> <span style="color:#9ca3af">›</span> <span style="color:#4b5563;font-weight:600">栽培・産地・旬</span></nav>
   <header style="margin-bottom:20px">
     <div style="font-size:2.4rem;line-height:1;margin-bottom:8px">🗾</div>
     <h1 style="font-size:1.7rem;color:#8B1538;border-bottom:2px solid #8B1538;padding-bottom:10px;margin:0 0 8px">日本国内のビーツ栽培｜主要産地と旬の時期</h1>

diff --git a/nutrition/index.html b/nutrition/index.html
@@ -4,7 +4,7 @@
     <meta charset="UTF-8" />
     <link rel="icon" type="image/svg+xml" href="../favicon.svg" />
     <meta name="viewport" content="width=device-width, initial-scale=1.0" />
-    <title>ビーツの栄養と健康効果｜硝酸塩・ベタレイン・葉酸 | ビーツ完全ガイド</title>
+    <title>ビーツの栄養と健康効果｜硝酸塩・ベタレイン・葉酸 | ビーツの基本ガイド</title>
     <meta name="description" content="硝酸塩による血圧低下・運動パフォーマンス向上、ベタレインの抗酸化作用、葉酸・カリウム・鉄など、ビーツの主要栄養素と科学的根拠を解説します。" />
     <meta name="keywords" content="ビーツ,テーブルビート,栄養,効能,硝酸塩,ベタレイン,ボルシチ,レシピ,保存方法" />
     <meta property="og:title" content="ビーツの栄養と健康効果｜硝酸塩・ベタレイン・葉酸" />
@@ -42,15 +42,15 @@
         }
       })();
     </script>
-    <script type="module" crossorigin src="../assets/index-BDP4HlG-.js"></script>
+    <script type="module" crossorigin src="../assets/index-DYAxEJlV.js"></script>
     <link rel="stylesheet" crossorigin href="../assets/index-BMokHyp3.css">
   <script type="application/ld+json">{"@context":"https://schema.org","@type":"Article","headline":"ビーツの栄養と健康効果｜硝酸塩・ベタレイン・葉酸","description":"硝酸塩による血圧低下・運動パフォーマンス向上、ベタレインの抗酸化作用、葉酸・カリウム・鉄など、ビーツの主要栄養素と科学的根拠を解説します。","url":"https://study-apps.com/beets-info/nutrition/","inLanguage":"ja","datePublished":"2026-05-18","dateModified":"2026-05-18","author":{"@type":"Organization","name":"study-apps.com"},"publisher":{"@type":"Organization","name":"study-apps.com","url":"https://study-apps.com/"},"mainEntityOfPage":{"@type":"WebPage","@id":"https://study-apps.com/beets-info/nutrition/"}}</script>
-  <script type="application/ld+json">{"@context":"https://schema.org","@type":"BreadcrumbList","itemListElement":[{"@type":"ListItem","position":1,"name":"ビーツ完全ガイド","item":"https://study-apps.com/beets-info/"},{"@type":"ListItem","position":2,"name":"栄養と健康効果","item":"https://study-apps.com/beets-info/nutrition/"}]}</script>
+  <script type="application/ld+json">{"@context":"https://schema.org","@type":"BreadcrumbList","itemListElement":[{"@type":"ListItem","position":1,"name":"ビーツの基本ガイド","item":"https://study-apps.com/beets-info/"},{"@type":"ListItem","position":2,"name":"栄養と健康効果","item":"https://study-apps.com/beets-info/nutrition/"}]}</script>
   
   </head>
   <body>
     <div id="root"><article style="font-family:'Hiragino Kaku Gothic ProN','Hiragino Sans','Yu Gothic',Meiryo,sans-serif;line-height:1.85;max-width:920px;margin:0 auto;padding:24px 16px;color:#1f2937">
-  <nav style="font-size:0.85rem;color:#6b7280;margin:0 0 16px"><a href="/beets-info/" style="color:#8B1538;text-decoration:none">ビーツ完全ガイド</a> <span style="color:#9ca3af">›</span> <span style="color:#4b5563;font-weight:600">栄養と健康効果</span></nav>
+  <nav style="font-size:0.85rem;color:#6b7280;margin:0 0 16px"><a href="/beets-info/" style="color:#8B1538;text-decoration:none">ビーツの基本ガイド</a> <span style="color:#9ca3af">›</span> <span style="color:#4b5563;font-weight:600">栄養と健康効果</span></nav>
   <header style="margin-bottom:20px">
     <div style="font-size:2.4rem;line-height:1;margin-bottom:8px">💪</div>
     <h1 style="font-size:1.7rem;color:#8B1538;border-bottom:2px solid #8B1538;padding-bottom:10px;margin:0 0 8px">ビーツの栄養と健康効果｜硝酸塩・ベタレイン・葉酸</h1>

diff --git a/recipes/index.html b/recipes/index.html
@@ -4,7 +4,7 @@
     <meta charset="UTF-8" />
     <link rel="icon" type="image/svg+xml" href="../favicon.svg" />
     <meta name="viewport" content="width=device-width, initial-scale=1.0" />
-    <title>ビーツのレシピと下処理｜ボルシチ・サラダ・スムージー | ビーツ完全ガイド</title>
+    <title>ビーツのレシピと下処理｜ボルシチ・サラダ・スムージー | ビーツの基本ガイド</title>
     <meta name="description" content="ビーツの代表料理（ボルシチ・サラダ・スムージー）と、茹で方・ロースト・電子レンジなど美味しく食べるための下処理のコツを解説します。" />
     <meta name="keywords" content="ビーツ,テーブルビート,栄養,効能,硝酸塩,ベタレイン,ボルシチ,レシピ,保存方法" />
     <meta property="og:title" content="ビーツのレシピと下処理｜ボルシチ・サラダ・スムージー" />
@@ -42,15 +42,15 @@
         }
       })();
     </script>
-    <script type="module" crossorigin src="../assets/index-BDP4HlG-.js"></script>
+    <script type="module" crossorigin src="../assets/index-DYAxEJlV.js"></script>
     <link rel="stylesheet" crossorigin href="../assets/index-BMokHyp3.css">
   <script type="application/ld+json">{"@context":"https://schema.org","@type":"Article","headline":"ビーツのレシピと下処理｜ボルシチ・サラダ・スムージー","description":"ビーツの代表料理（ボルシチ・サラダ・スムージー）と、茹で方・ロースト・電子レンジなど美味しく食べるための下処理のコツを解説します。","url":"https://study-apps.com/beets-info/recipes/","inLanguage":"ja","datePublished":"2026-05-18","dateModified":"2026-05-18","author":{"@type":"Organization","name":"study-apps.com"},"publisher":{"@type":"Organization","name":"study-apps.com","url":"https://study-apps.com/"},"mainEntityOfPage":{"@type":"WebPage","@id":"https://study-apps.com/beets-info/recipes/"}}</script>
-  <script type="application/ld+json">{"@context":"https://schema.org","@type":"BreadcrumbList","itemListElement":[{"@type":"ListItem","position":1,"name":"ビーツ完全ガイド","item":"https://study-apps.com/beets-info/"},{"@type":"ListItem","position":2,"name":"料理とレシピ","item":"https://study-apps.com/beets-info/recipes/"}]}</script>
+  <script type="application/ld+json">{"@context":"https://schema.org","@type":"BreadcrumbList","itemListElement":[{"@type":"ListItem","position":1,"name":"ビーツの基本ガイド","item":"https://study-apps.com/beets-info/"},{"@type":"ListItem","position":2,"name":"料理とレシピ","item":"https://study-apps.com/beets-info/recipes/"}]}</script>
   <script type="application/ld+json">{"@context":"https://schema.org","@type":"FAQPage","mainEntity":[{"@type":"Question","name":"ビーツの皮はいつ剥けばよいですか？","acceptedAnswer":{"@type":"Answer","text":"加熱後に剥くのが鉄則です。生の状態で皮を剥いたり切ったりして茹でると、水溶性のベタシアニン（赤色色素）が水に流れ出て色も栄養も失われます。皮付きのまま丸ごと加熱し、粗熱が取れてから金属スプーンの背などで「こそげ落とす」ようにすれば、包丁不要できれいに剥けます。"}},{"@type":"Question","name":"ビーツを茹でると色が抜けてしまいます。どうすればきれいな赤色を保てますか？","acceptedAnswer":{"@type":"Answer","text":"3つのコツがあります。(1) 皮付き・ヘタを2.5〜5cm残して丸ごと茹でる、(2) 茹で水1Lに対しお酢かレモン汁を大さじ1加える（ベタシアニンは酸性で安定）、(3) 塩は加熱の初期に入れず、最後の味付け段階で加える。これで色鮮やかに仕上がります。"}},{"@type":"Question","name":"ビーツの葉や茎は食べられますか？","acceptedAnswer":{"@type":"Answer","text":"食べられます。ホウレンソウの仲間なので、似た使い方ができます。茎はみじん切りにしてごま油・塩・酒・めんつゆで炒め煮にすると佃煮風になります。葉はオリーブオイルとにんにくで炒めたり、スープの仕上げに加えたりすると、彩りも栄養もアップします。"}}]}</script>
   </head>
   <body>
     <div id="root"><article style="font-family:'Hiragino Kaku Gothic ProN','Hiragino Sans','Yu Gothic',Meiryo,sans-serif;line-height:1.85;max-width:920px;margin:0 auto;padding:24px 16px;color:#1f2937">
-  <nav style="font-size:0.85rem;color:#6b7280;margin:0 0 16px"><a href="/beets-info/" style="color:#8B1538;text-decoration:none">ビーツ完全ガイド</a> <span style="color:#9ca3af">›</span> <span style="color:#4b5563;font-weight:600">料理とレシピ</span></nav>
+  <nav style="font-size:0.85rem;color:#6b7280;margin:0 0 16px"><a href="/beets-info/" style="color:#8B1538;text-decoration:none">ビーツの基本ガイド</a> <span style="color:#9ca3af">›</span> <span style="color:#4b5563;font-weight:600">料理とレシピ</span></nav>
   <header style="margin-bottom:20px">
     <div style="font-size:2.4rem;line-height:1;margin-bottom:8px">🍽️</div>
     <h1 style="font-size:1.7rem;color:#8B1538;border-bottom:2px solid #8B1538;padding-bottom:10px;margin:0 0 8px">ビーツのレシピと下処理｜ボルシチ・サラダ・スムージー</h1>

diff --git a/storage/index.html b/storage/index.html
@@ -4,7 +4,7 @@
     <meta charset="UTF-8" />
     <link rel="icon" type="image/svg+xml" href="../favicon.svg" />
     <meta name="viewport" content="width=device-width, initial-scale=1.0" />
-    <title>ビーツの選び方と保存方法｜新鮮なものの見分け方 | ビーツ完全ガイド</title>
+    <title>ビーツの選び方と保存方法｜新鮮なものの見分け方 | ビーツの基本ガイド</title>
     <meta name="description" content="スーパーで新鮮で良質なビーツを選ぶ見分け方と、家庭での冷蔵・冷凍保存の正しいテクニックを解説します。" />
     <meta name="keywords" content="ビーツ,テーブルビート,栄養,効能,硝酸塩,ベタレイン,ボルシチ,レシピ,保存方法" />
     <meta property="og:title" content="ビーツの選び方と保存方法｜新鮮なものの見分け方" />
@@ -42,15 +42,15 @@
         }
       })();
     </script>
-    <script type="module" crossorigin src="../assets/index-BDP4HlG-.js"></script>
+    <script type="module" crossorigin src="../assets/index-DYAxEJlV.js"></script>
     <link rel="stylesheet" crossorigin href="../assets/index-BMokHyp3.css">
   <script type="application/ld+json">{"@context":"https://schema.org","@type":"Article","headline":"ビーツの選び方と保存方法｜新鮮なものの見分け方","description":"スーパーで新鮮で良質なビーツを選ぶ見分け方と、家庭での冷蔵・冷凍保存の正しいテクニックを解説します。","url":"https://study-apps.com/beets-info/storage/","inLanguage":"ja","datePublished":"2026-05-18","dateModified":"2026-05-18","author":{"@type":"Organization","name":"study-apps.com"},"publisher":{"@type":"Organization","name":"study-apps.com","url":"https://study-apps.com/"},"mainEntityOfPage":{"@type":"WebPage","@id":"https://study-apps.com/beets-info/storage/"}}</script>
-  <script type="application/ld+json">{"@context":"https://schema.org","@type":"BreadcrumbList","itemListElement":[{"@type":"ListItem","position":1,"name":"ビーツ完全ガイド","item":"https://study-apps.com/beets-info/"},{"@type":"ListItem","position":2,"name":"選び方と保存","item":"https://study-apps.com/beets-info/storage/"}]}</script>
+  <script type="application/ld+json">{"@context":"https://schema.org","@type":"BreadcrumbList","itemListElement":[{"@type":"ListItem","position":1,"name":"ビーツの基本ガイド","item":"https://study-apps.com/beets-info/"},{"@type":"ListItem","position":2,"name":"選び方と保存","item":"https://study-apps.com/beets-info/storage/"}]}</script>
   
   </head>
   <body>
     <div id="root"><article style="font-family:'Hiragino Kaku Gothic ProN','Hiragino Sans','Yu Gothic',Meiryo,sans-serif;line-height:1.85;max-width:920px;margin:0 auto;padding:24px 16px;color:#1f2937">
-  <nav style="font-size:0.85rem;color:#6b7280;margin:0 0 16px"><a href="/beets-info/" style="color:#8B1538;text-decoration:none">ビーツ完全ガイド</a> <span style="color:#9ca3af">›</span> <span style="color:#4b5563;font-weight:600">選び方と保存</span></nav>
+  <nav style="font-size:0.85rem;color:#6b7280;margin:0 0 16px"><a href="/beets-info/" style="color:#8B1538;text-decoration:none">ビーツの基本ガイド</a> <span style="color:#9ca3af">›</span> <span style="color:#4b5563;font-weight:600">選び方と保存</span></nav>
   <header style="margin-bottom:20px">
     <div style="font-size:2.4rem;line-height:1;margin-bottom:8px">🛒</div>
     <h1 style="font-size:1.7rem;color:#8B1538;border-bottom:2px solid #8B1538;padding-bottom:10px;margin:0 0 8px">ビーツの選び方と保存方法｜新鮮なものの見分け方</h1>

diff --git a/404.html b/404.html
@@ -2,7 +2,7 @@
 <html lang="ja">
   <head>
     <meta charset="UTF-8" />
-    <title>ビーツ完全ガイド</title>
+    <title>ビーツの基本ガイド</title>
     <script>
       var l = window.location;
       l.replace(